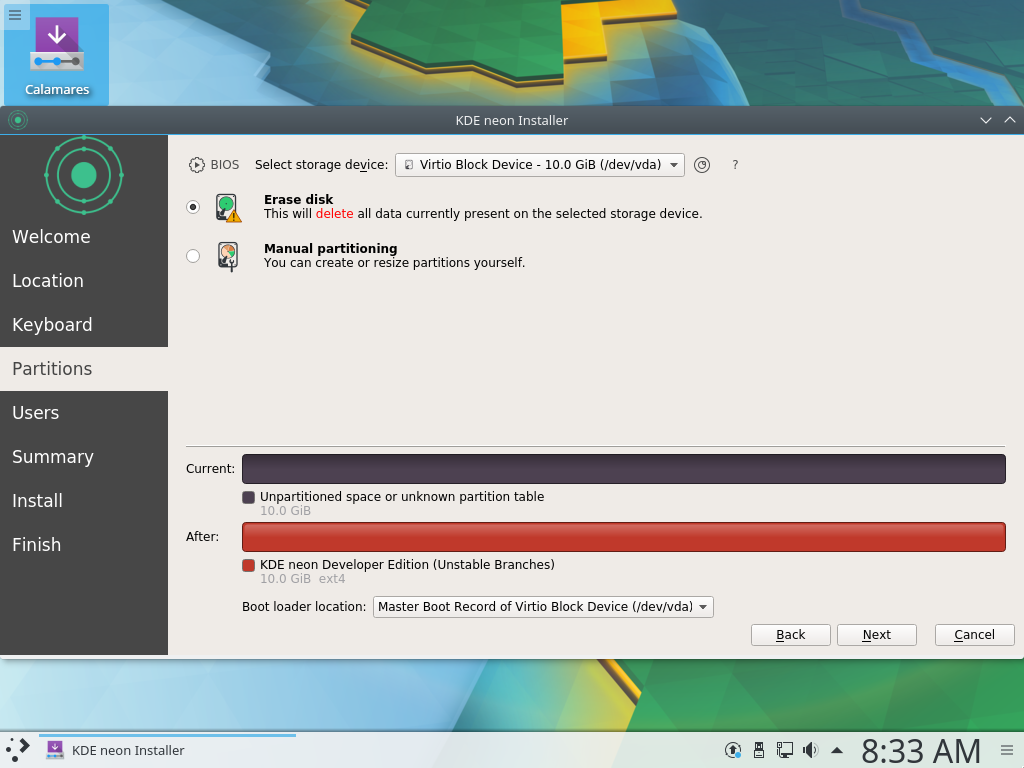
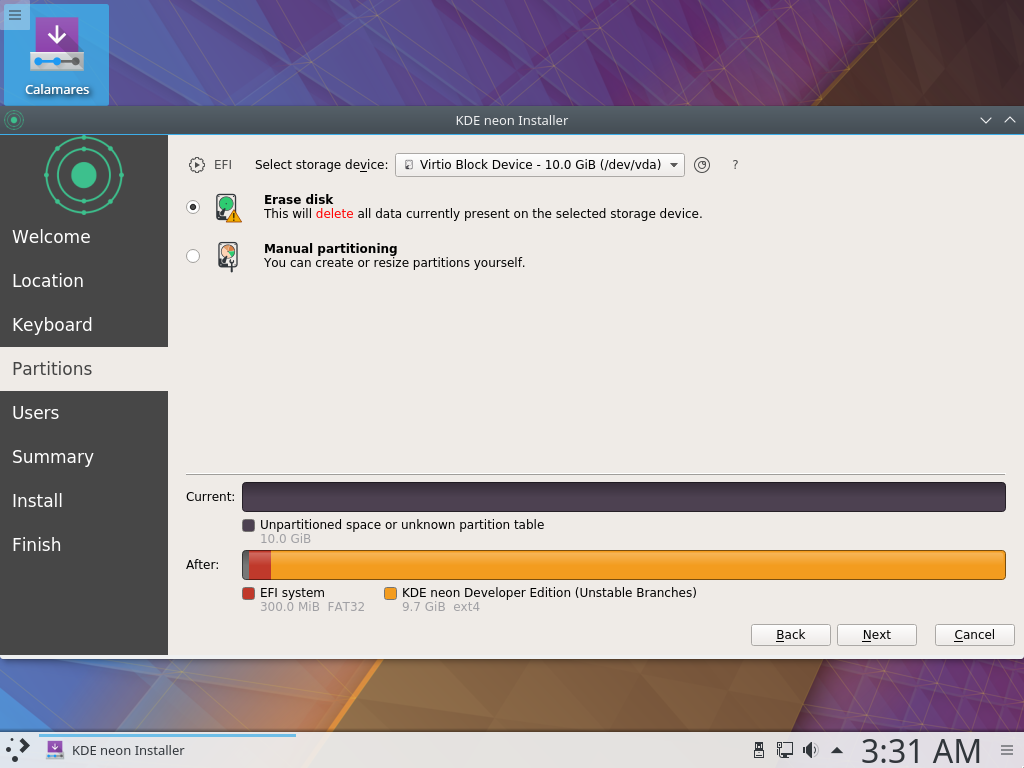
change test to uefi by default
- install ovmf for the firmware
- set uefi in the vars (currently always on, we need a second test
  for bios)
- main.pm now always asserts the install bootloader for install tests
- installer test no longer assert bootloader
- new bootloader-uefi needle (matches bootloader tag)
- new bootloader test looking for bootloader needle and either starting
  grub or letting isolinux do its autostart thing
- adjust installer tests to let system settle down again before starting
  the installers themselves
-

diff --git a/bin/install.rb b/bin/install.rb
@@ -24,7 +24,7 @@ require 'mkmf' # for find_executable
 build_deps = %w[libtheora-dev libopencv-dev libfftw3-dev libsndfile1-dev
                 pkg-config libtool autoconf automake build-essential
                 libxml2-dev libssh2-1-dev libdbus-1-dev carton]
-runtime_deps = %w[kvm qemu kmod git]
+runtime_deps = %w[kvm qemu kmod git ovmf]
 zsync_build_deps = %w[devscripts autotools-dev libcurl4-openssl-dev]
 deps = build_deps + runtime_deps + zsync_build_deps
 

diff --git a/bin/run.rb b/bin/run.rb
@@ -61,6 +61,8 @@ config = {
   MAKETESTSNAPSHOTS: false,
   QEMUCPUS: cpus,
   QEMURAM: 2048,
+  UEFI_BIOS: '/usr/share/OVMF/OVMF_CODE.fd',
+  UEFI: 1,
   # The video is fairly useless gimicky stuff. Also theora... if I wanted a
   # pixelated slideshow I'd use a more efficient pixelation algorithm.
   NOVIDEO: true
